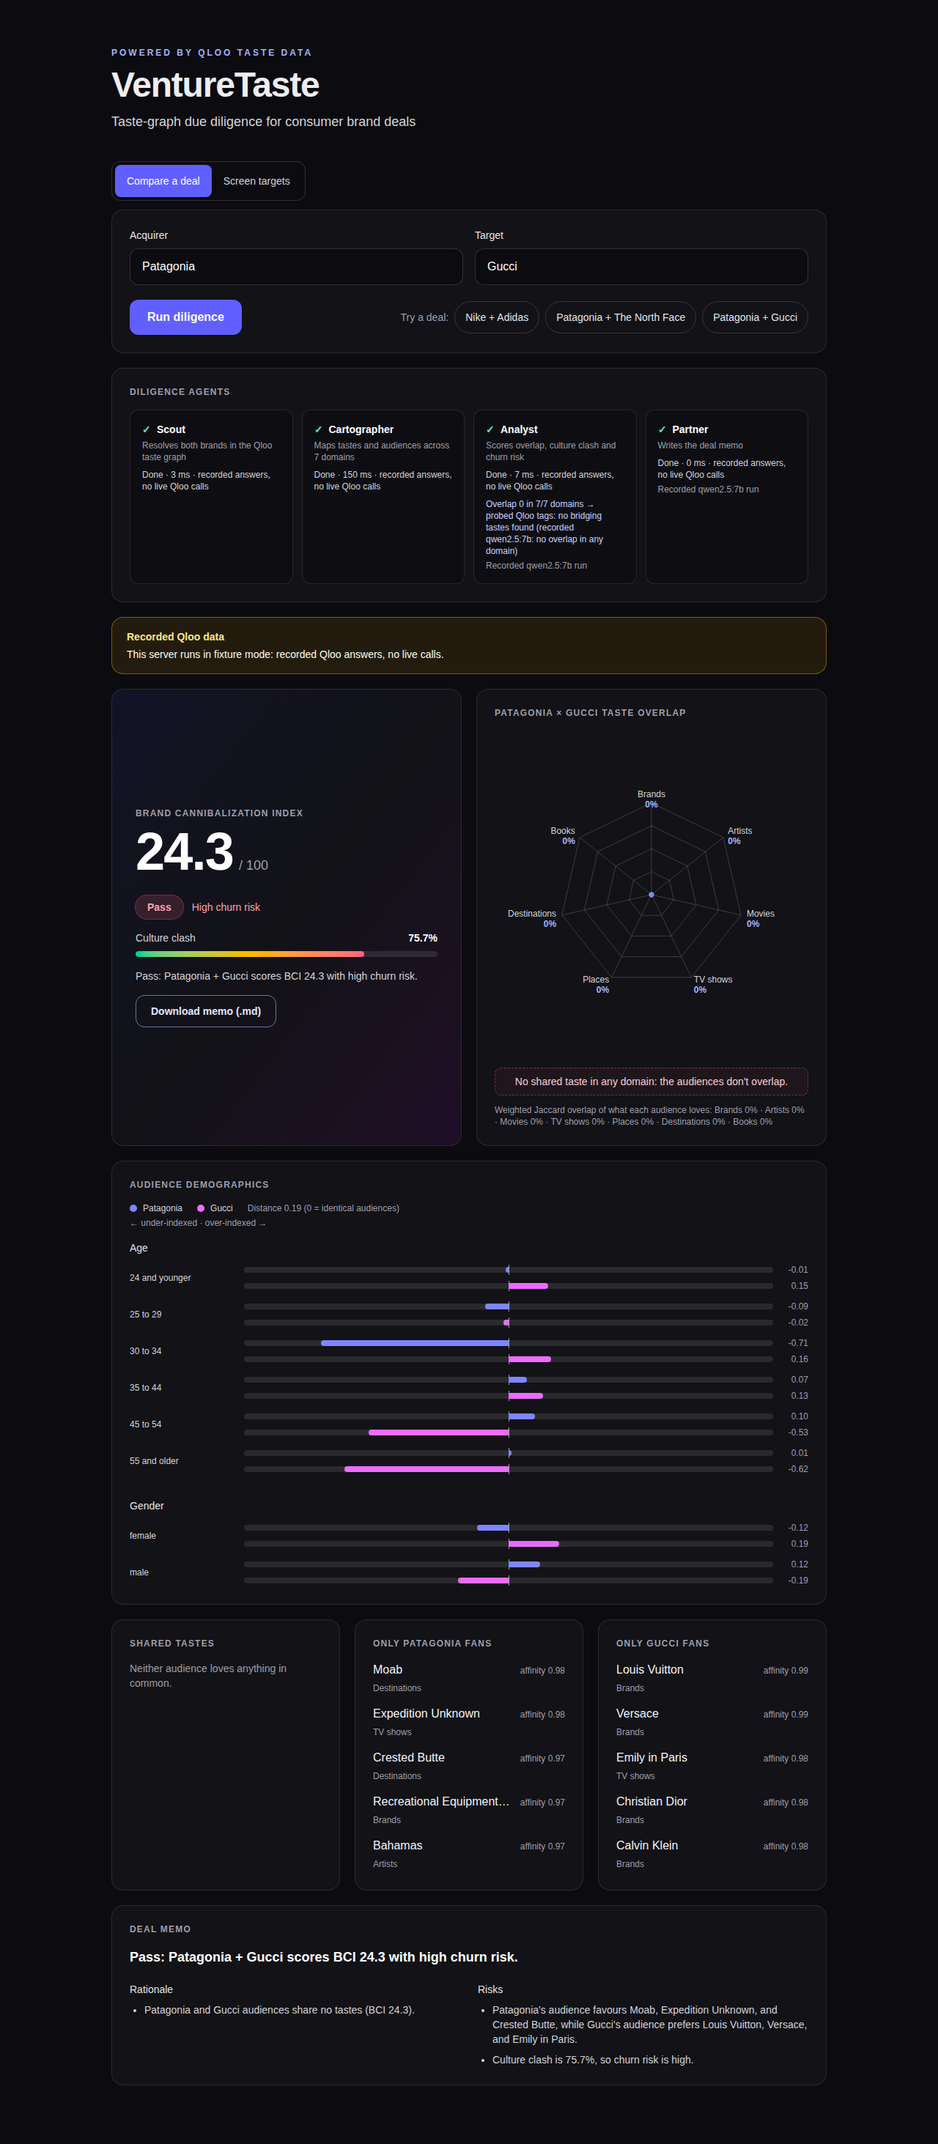
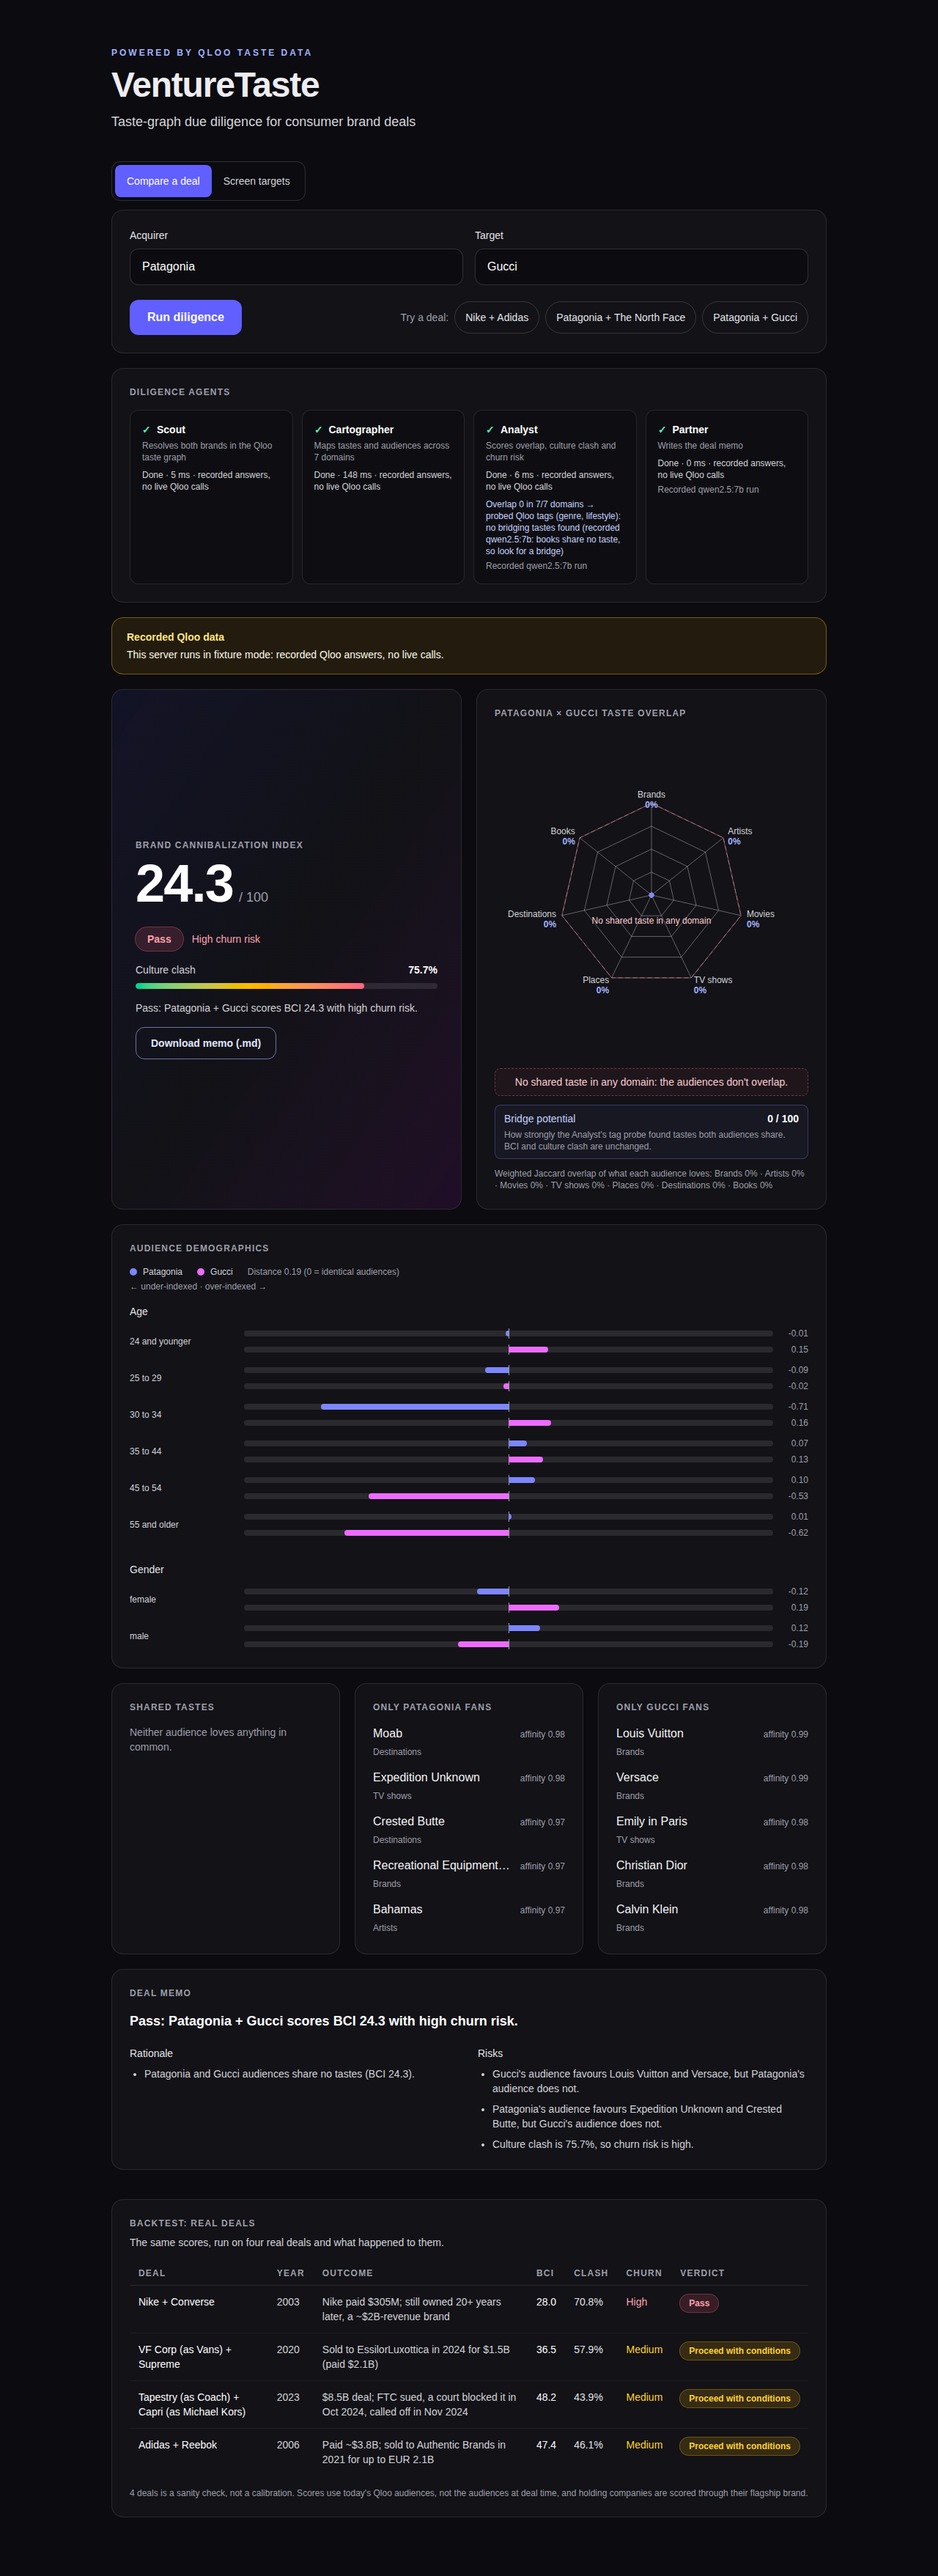
fresh screenshots plus a backtest shot

diff --git a/web/e2e/screenshots.spec.ts b/web/e2e/screenshots.spec.ts
@@ -93,5 +93,20 @@ test("README screenshots: Patagonia + Gucci culture clash",async ({ page }) => {
   await runPreset(page, "Patagonia + Gucci");
   await expect(page.getByTestId("verdict")).toHaveText("Pass");
   await expect(page.locator("body")).not.toContainText(/women-owned|friendship|inclusivity|credit card|hotel rating/i);
+  await expect(page.getByTestId("radar-empty-caption")).toHaveText("No shared taste in any domain");
+  await expect(page.locator("[data-testid=radar] .radar-baseline").first()).toBeAttached();
   await page.screenshot({ path: "../docs/culture-clash.png", fullPage: true });
+});
+
+test("README screenshots: backtest on real deals", async ({ page }) => {
+  await page.setViewportSize({ width: 1280, height: 800 });
+  await page.goto("/");
+  const panel = page.getByTestId("backtest");
+  await expect(panel.getByRole("heading", { name: "Backtest: real deals" })).toBeVisible();
+  await expect(panel.getByTestId("backtest-row")).toHaveCount(4);
+  await expect(panel.getByTestId("backtest-row").first()).toContainText("Nike + Converse");
+  await expect(panel.getByTestId("backtest-bci").first()).toHaveText("28.0");
+  await expect(panel.getByTestId("backtest-note")).toContainText("sanity check, not a calibration");
+  await panel.scrollIntoViewIfNeeded();
+  await panel.screenshot({ path: "../docs/backtest.png" });
 });

diff --git a/README.md b/README.md
@@ -94,7 +94,7 @@ curl -s -X POST http://127.0.0.1:8765/api/diligence \
 
 `recorded` is `{"reason": "..."}` when the answers are recorded Qloo data instead of live calls, and absent on live runs. It is set when `VENTURETASTE_FIXTURES=1`, and when the server has no `QLOO_API_KEY` or Qloo rejects the key (HTTP 401 or 403) and both brands are preset brands (the ones in `api/fixtures.py`); the run is then repeated on the recorded answers. The stream does the same: no `error` event, and the final `result` carries `recorded`. Other brands, and every other Qloo failure (timeouts, 429, 5xx), keep the errors below.
 
-Errors are `{"detail": "..."}` with: 422 for a bad body, an unknown brand, a brand with no taste data, or the same brand twice (checked before any Qloo call, ignoring case and punctuation); 422 when no `QLOO_API_KEY` is set and the pair is not recorded ("No Qloo API key is set on this server, so only recorded brands work: ... Set QLOO_API_KEY to try any brand."); 502 when Qloo fails or returns something unparseable.
+Errors are `{"detail": "..."}` with: 422 for a bad body, an unknown brand, a brand with no taste data, or the same brand twice (checked before any Qloo call, ignoring case and punctuation); 422 when no `QLOO_API_KEY` is set and the pair is not recorded ("No Qloo API key is set on this server, so only recorded brands work: ... Set QLOO_API_KEY to try any brand."), and the same 422 starting "Qloo rejected this server's API key, so only recorded brands work: ..." when Qloo answers 401/403 for a pair that is not recorded; 502 when Qloo fails or returns something unparseable.
 
 On a recorded run (no key, fixture mode, or a rejected key) nothing is asked of Qloo, so every trace item has `"qloo_calls": 0` and `"replayed": true`.
 
@@ -144,6 +144,8 @@ The verdict is `Pass` when churn risk is high, otherwise `Proceed` at BCI 50 or 
 ## Backtest on real deals
 
 Four real deals, scored with the same `score()` on the recorded Qloo fixtures (`GET /api/backtest`, also shown on the main page; `bun run backtest` prints this table):
+
+![The backtest panel on the main page: four real deals with their BCI, clash, churn and verdict](docs/backtest.png)
 
 | Deal | Year | Outcome | BCI | Clash | Churn | Verdict |
 |---|---|---|---|---|---|---|
